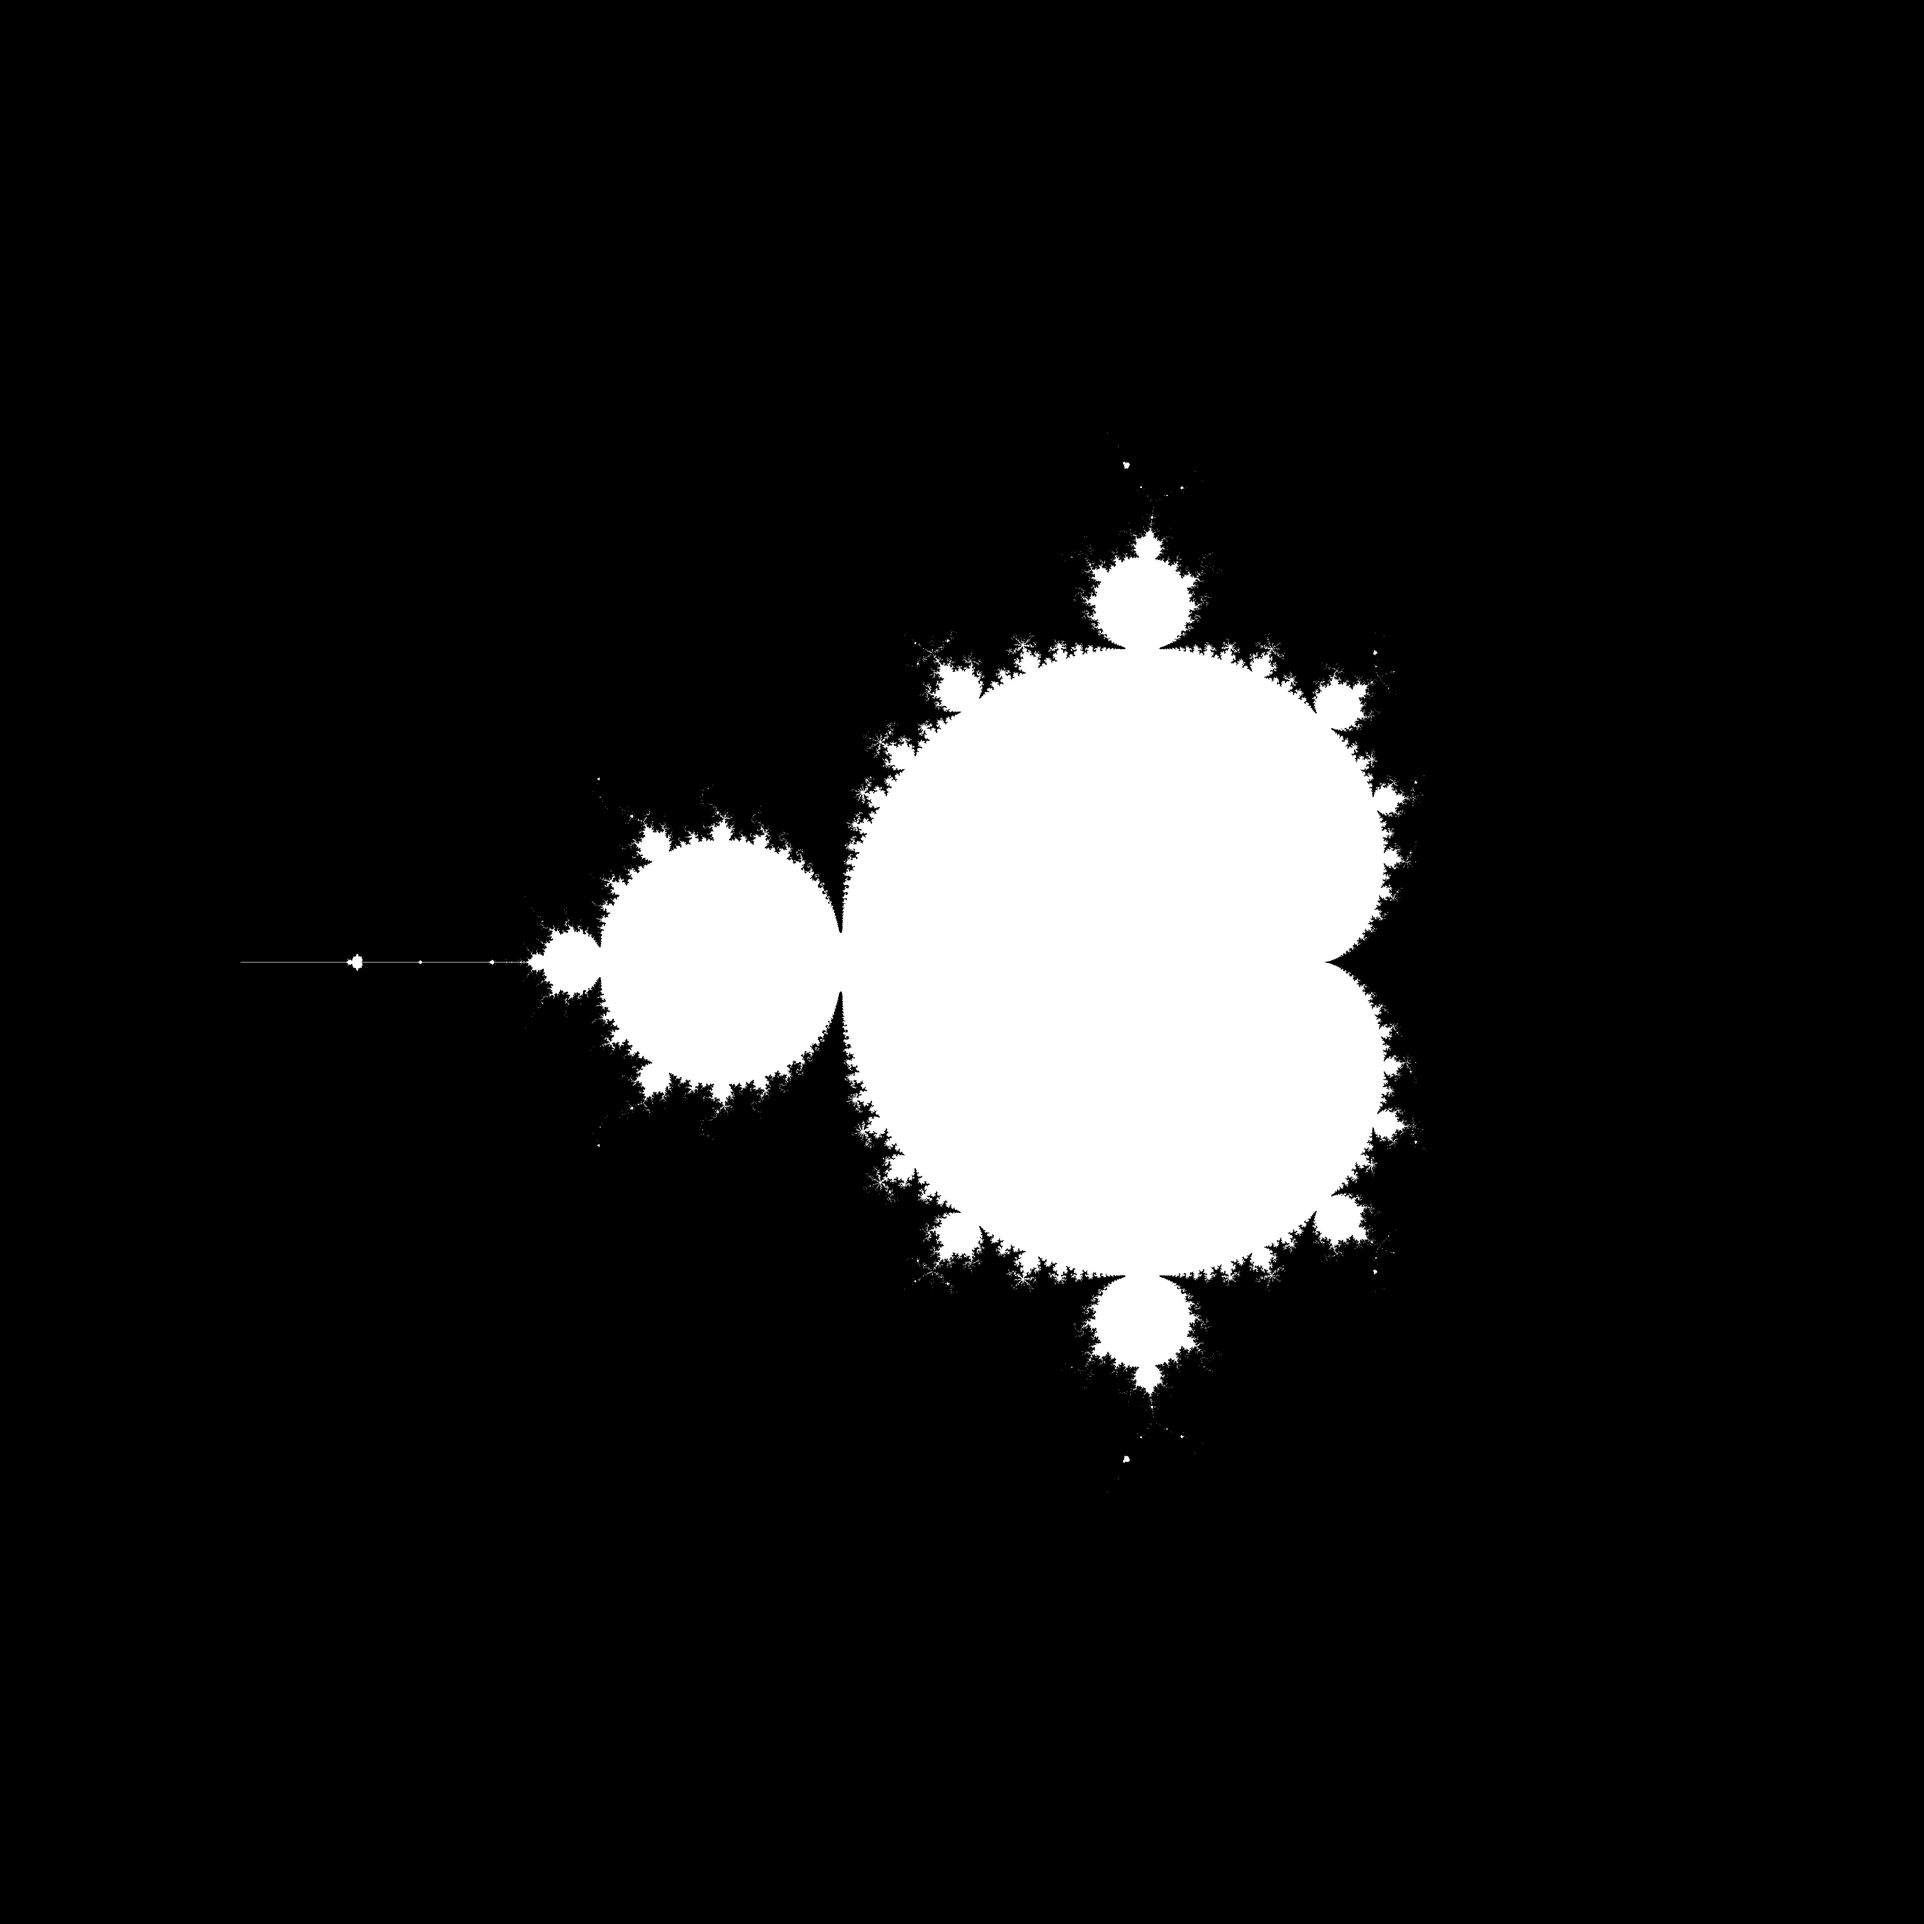
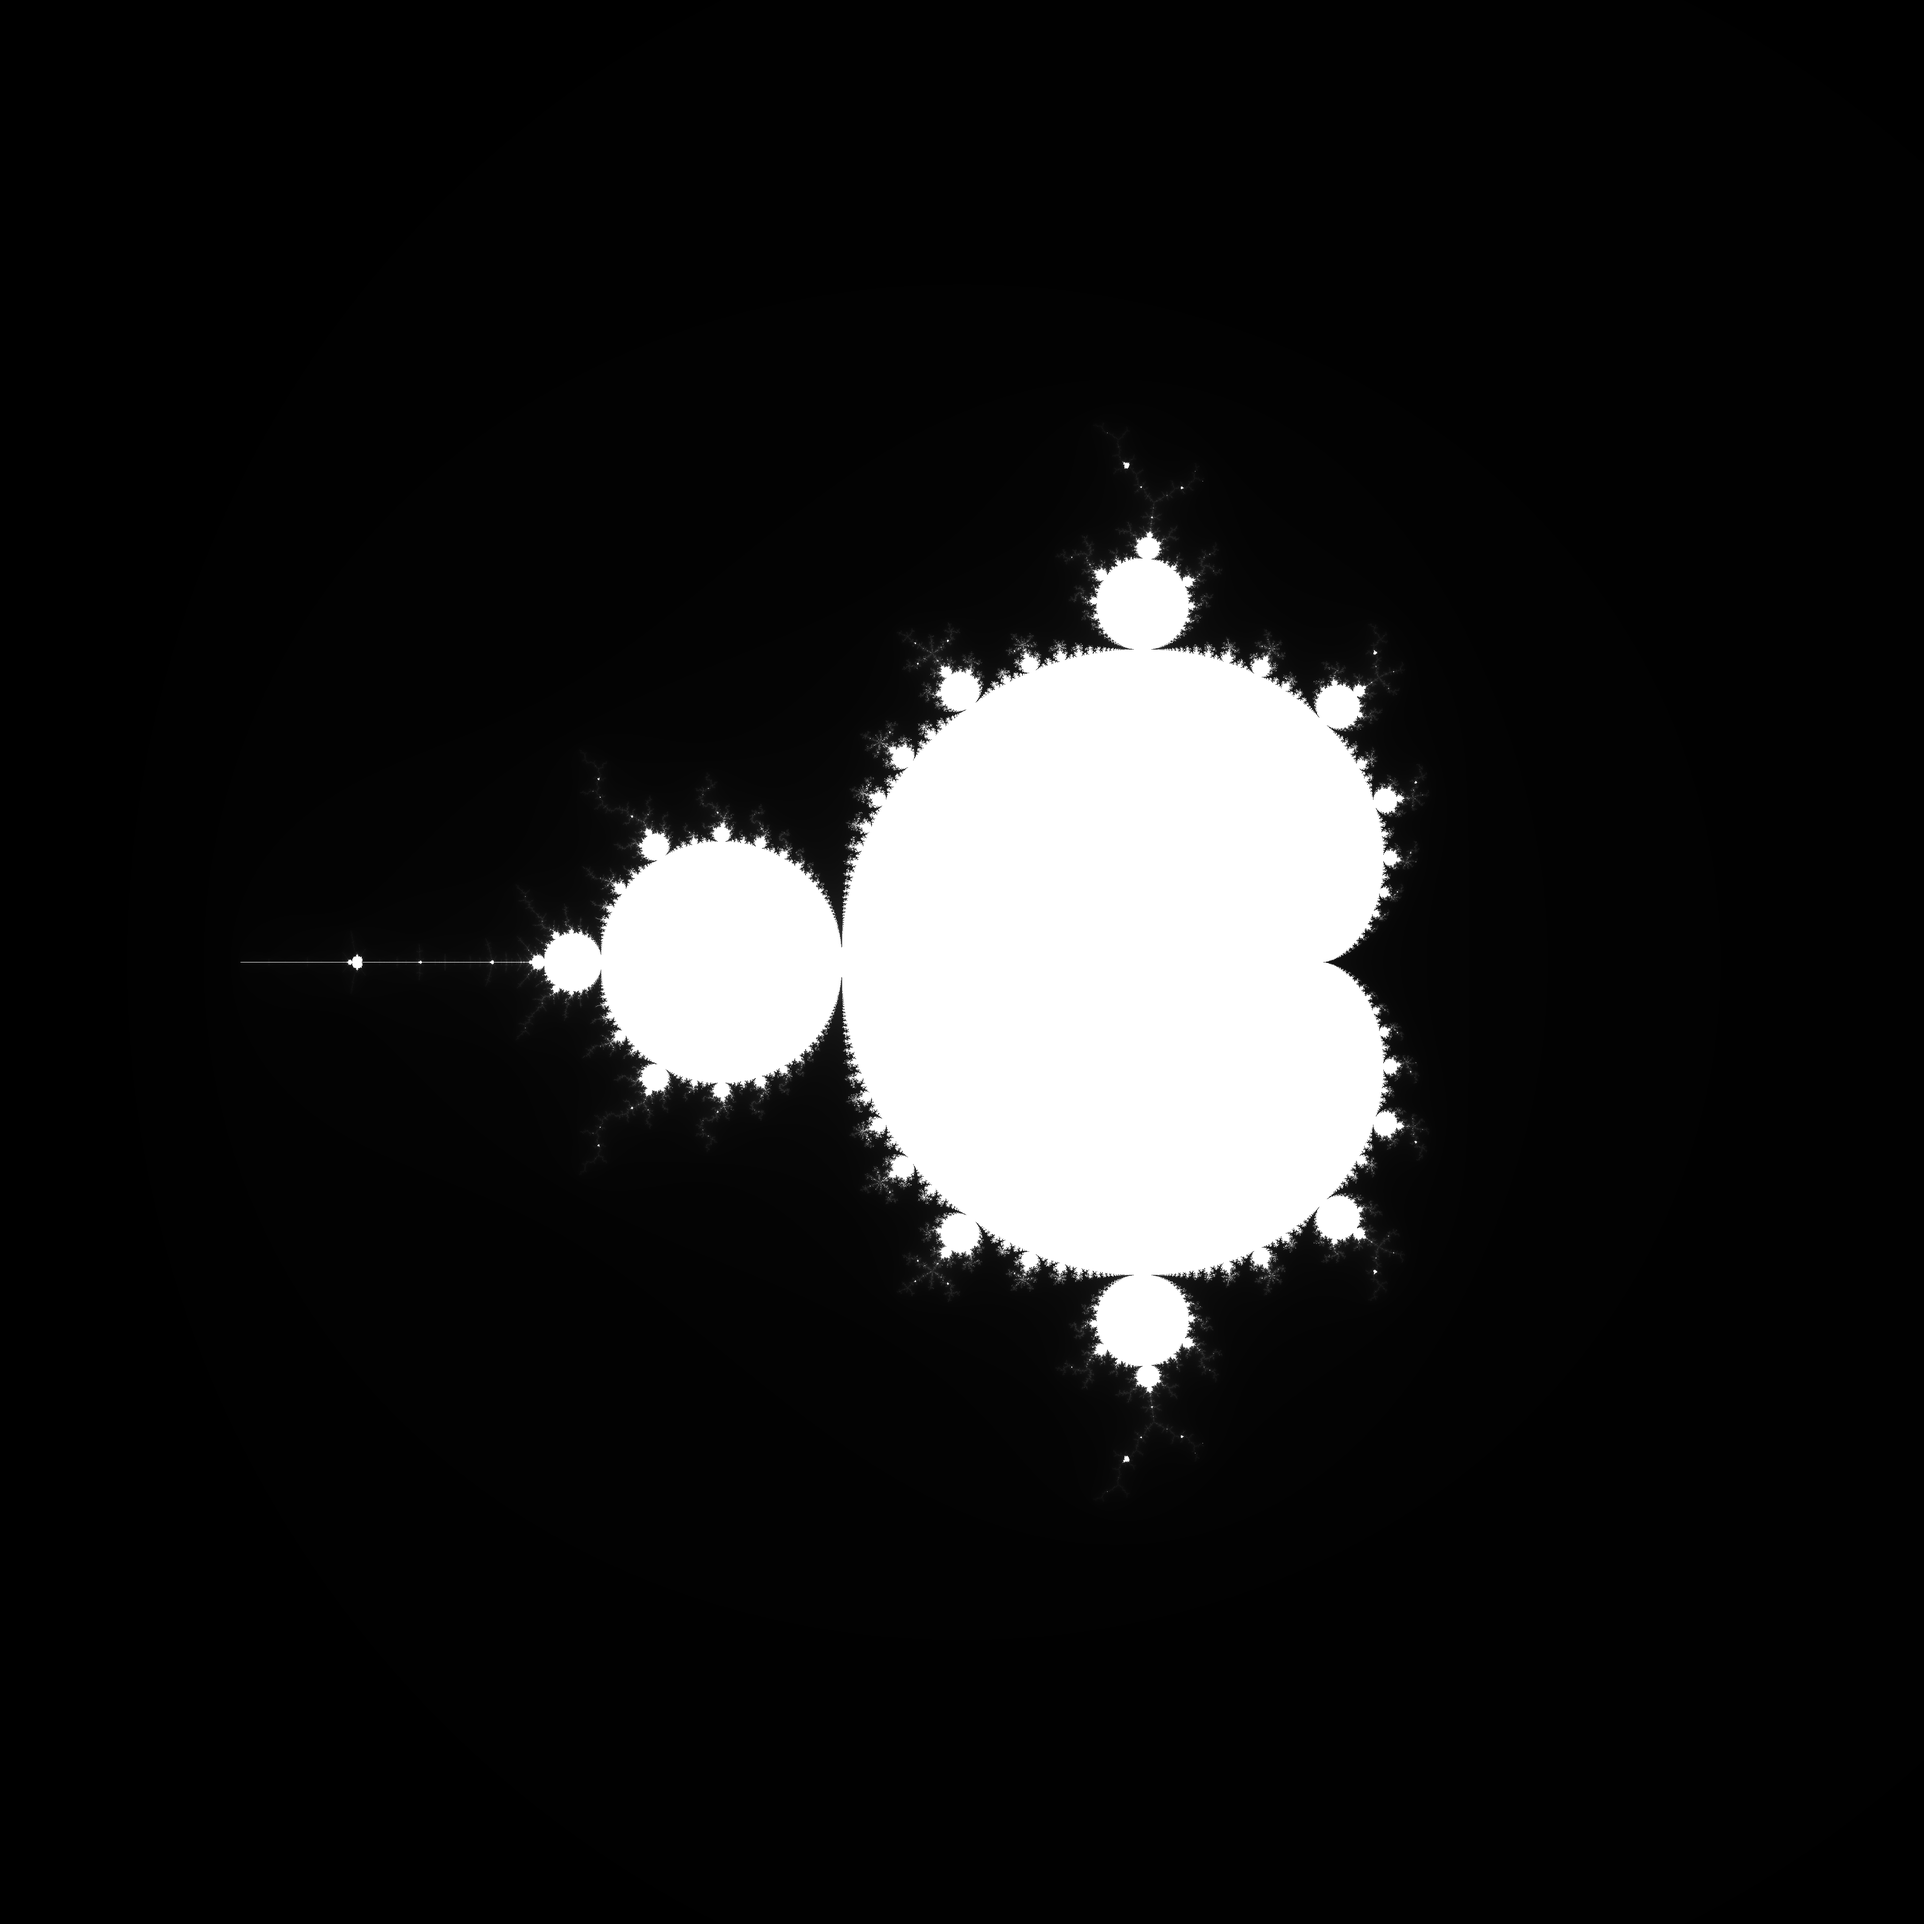
Added fading.

diff --git a/src/main.py b/src/main.py
@@ -31,8 +31,8 @@ def query_kernel(proc, width, height, x_start, x_end, y_start, y_end):
         img[i:i+len(data)] = np.frombuffer(data, dtype=np.uint8)
         i += len(data)
 
-    img = img * 255
     img = img.reshape((height, width))
+    img[img == 127] = 255
 
     elapse = time.time() - start
     return img, elapse
@@ -41,8 +41,8 @@ def query_kernel(proc, width, height, x_start, x_end, y_start, y_end):
 def main():
     parser = argparse.ArgumentParser()
     parser.add_argument("mode", choices=["image", "live"])
-    parser.add_argument("--width", type=int)
-    parser.add_argument("--height", type=int)
+    parser.add_argument("--width", type=int, default=1280)
+    parser.add_argument("--height", type=int, default=720)
     args = parser.parse_args()
     width = args.width
     height = args.height
